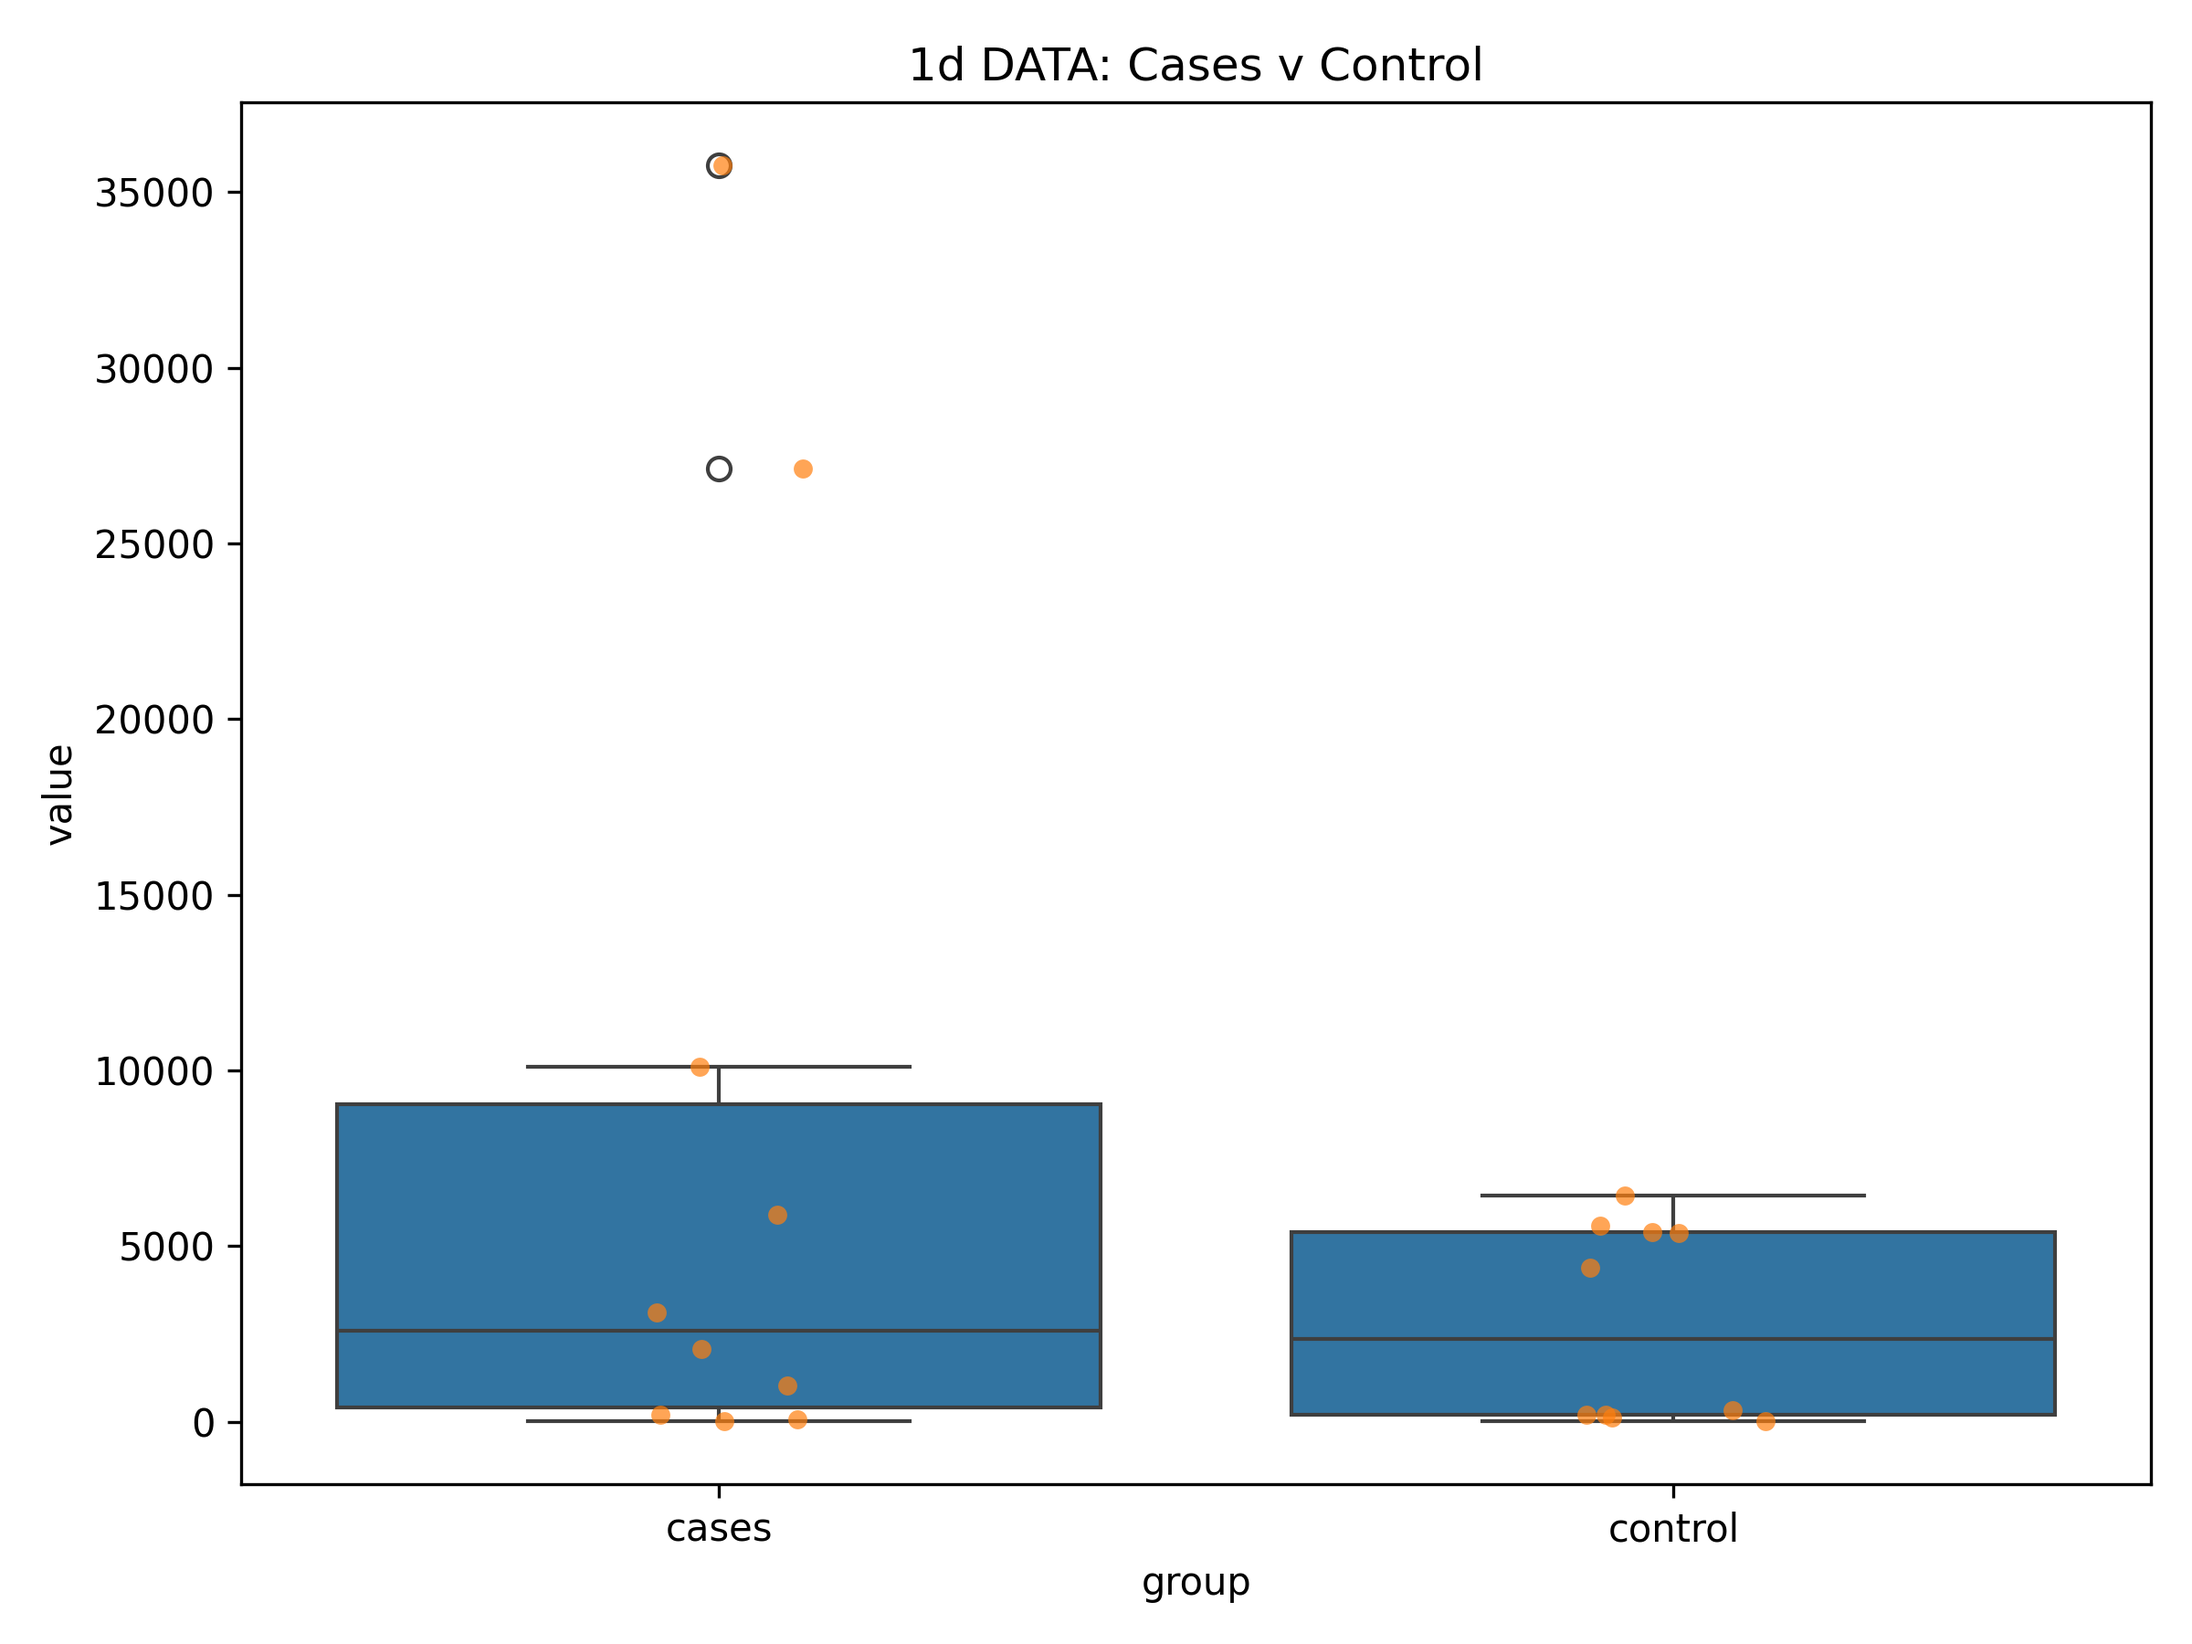
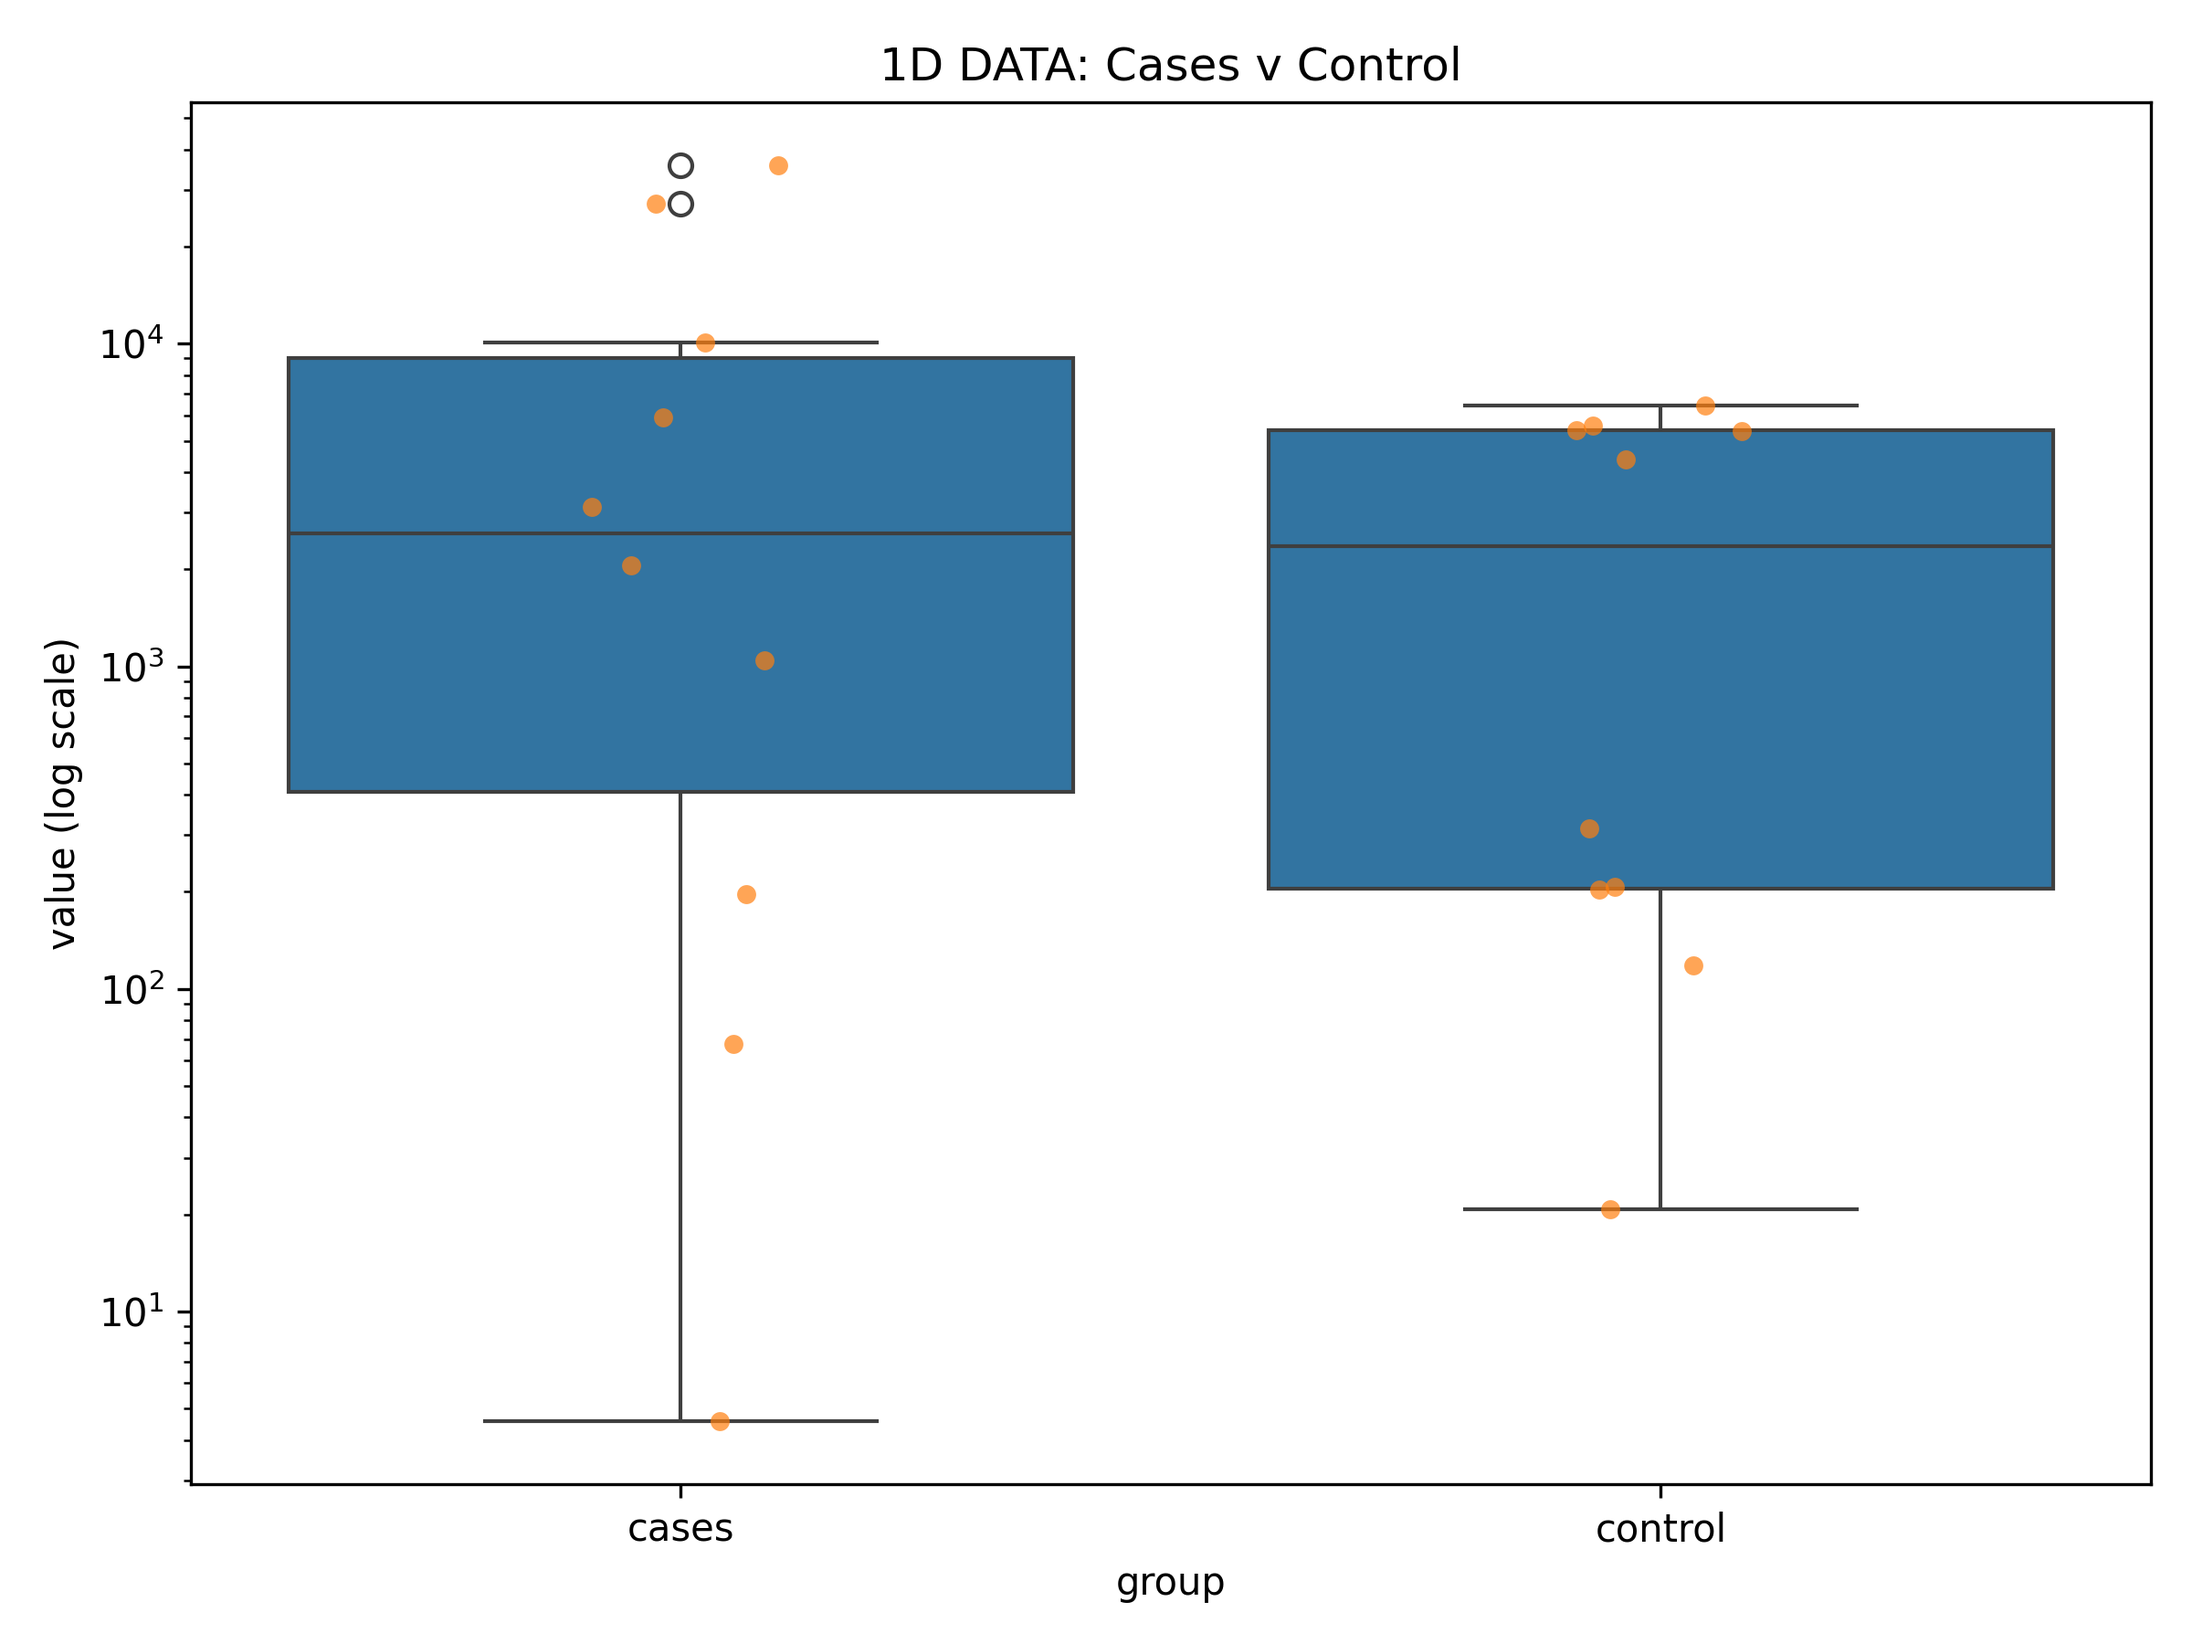
create log-scaled jitter/box plot for 1d data

diff --git a/workflow/viz_1d_data.py b/workflow/viz_1d_data.py
@@ -14,11 +14,19 @@ sns.boxplot(data=df, x="group", y="value")
 #raw obs using jitter 
 sns.stripplot(data=df, x="group", y="value", jitter=True, alpha=0.7)
 
+#(added after first rendering attempt)Log scale for improved readability
+plt.yscale("log")
+
+
+
+
 #labels/title
 plt.xlabel("group")
-plt.ylabel("value")
-plt.title("1d DATA: Cases v Control")
+plt.ylabel("value (log scale)")
+plt.title("1D DATA: Cases v Control")
 
+
+#saving
 plt.tight_layout()
 plt.savefig("figs/fig-1d-data.png", dpi=300)
 plt.close()
